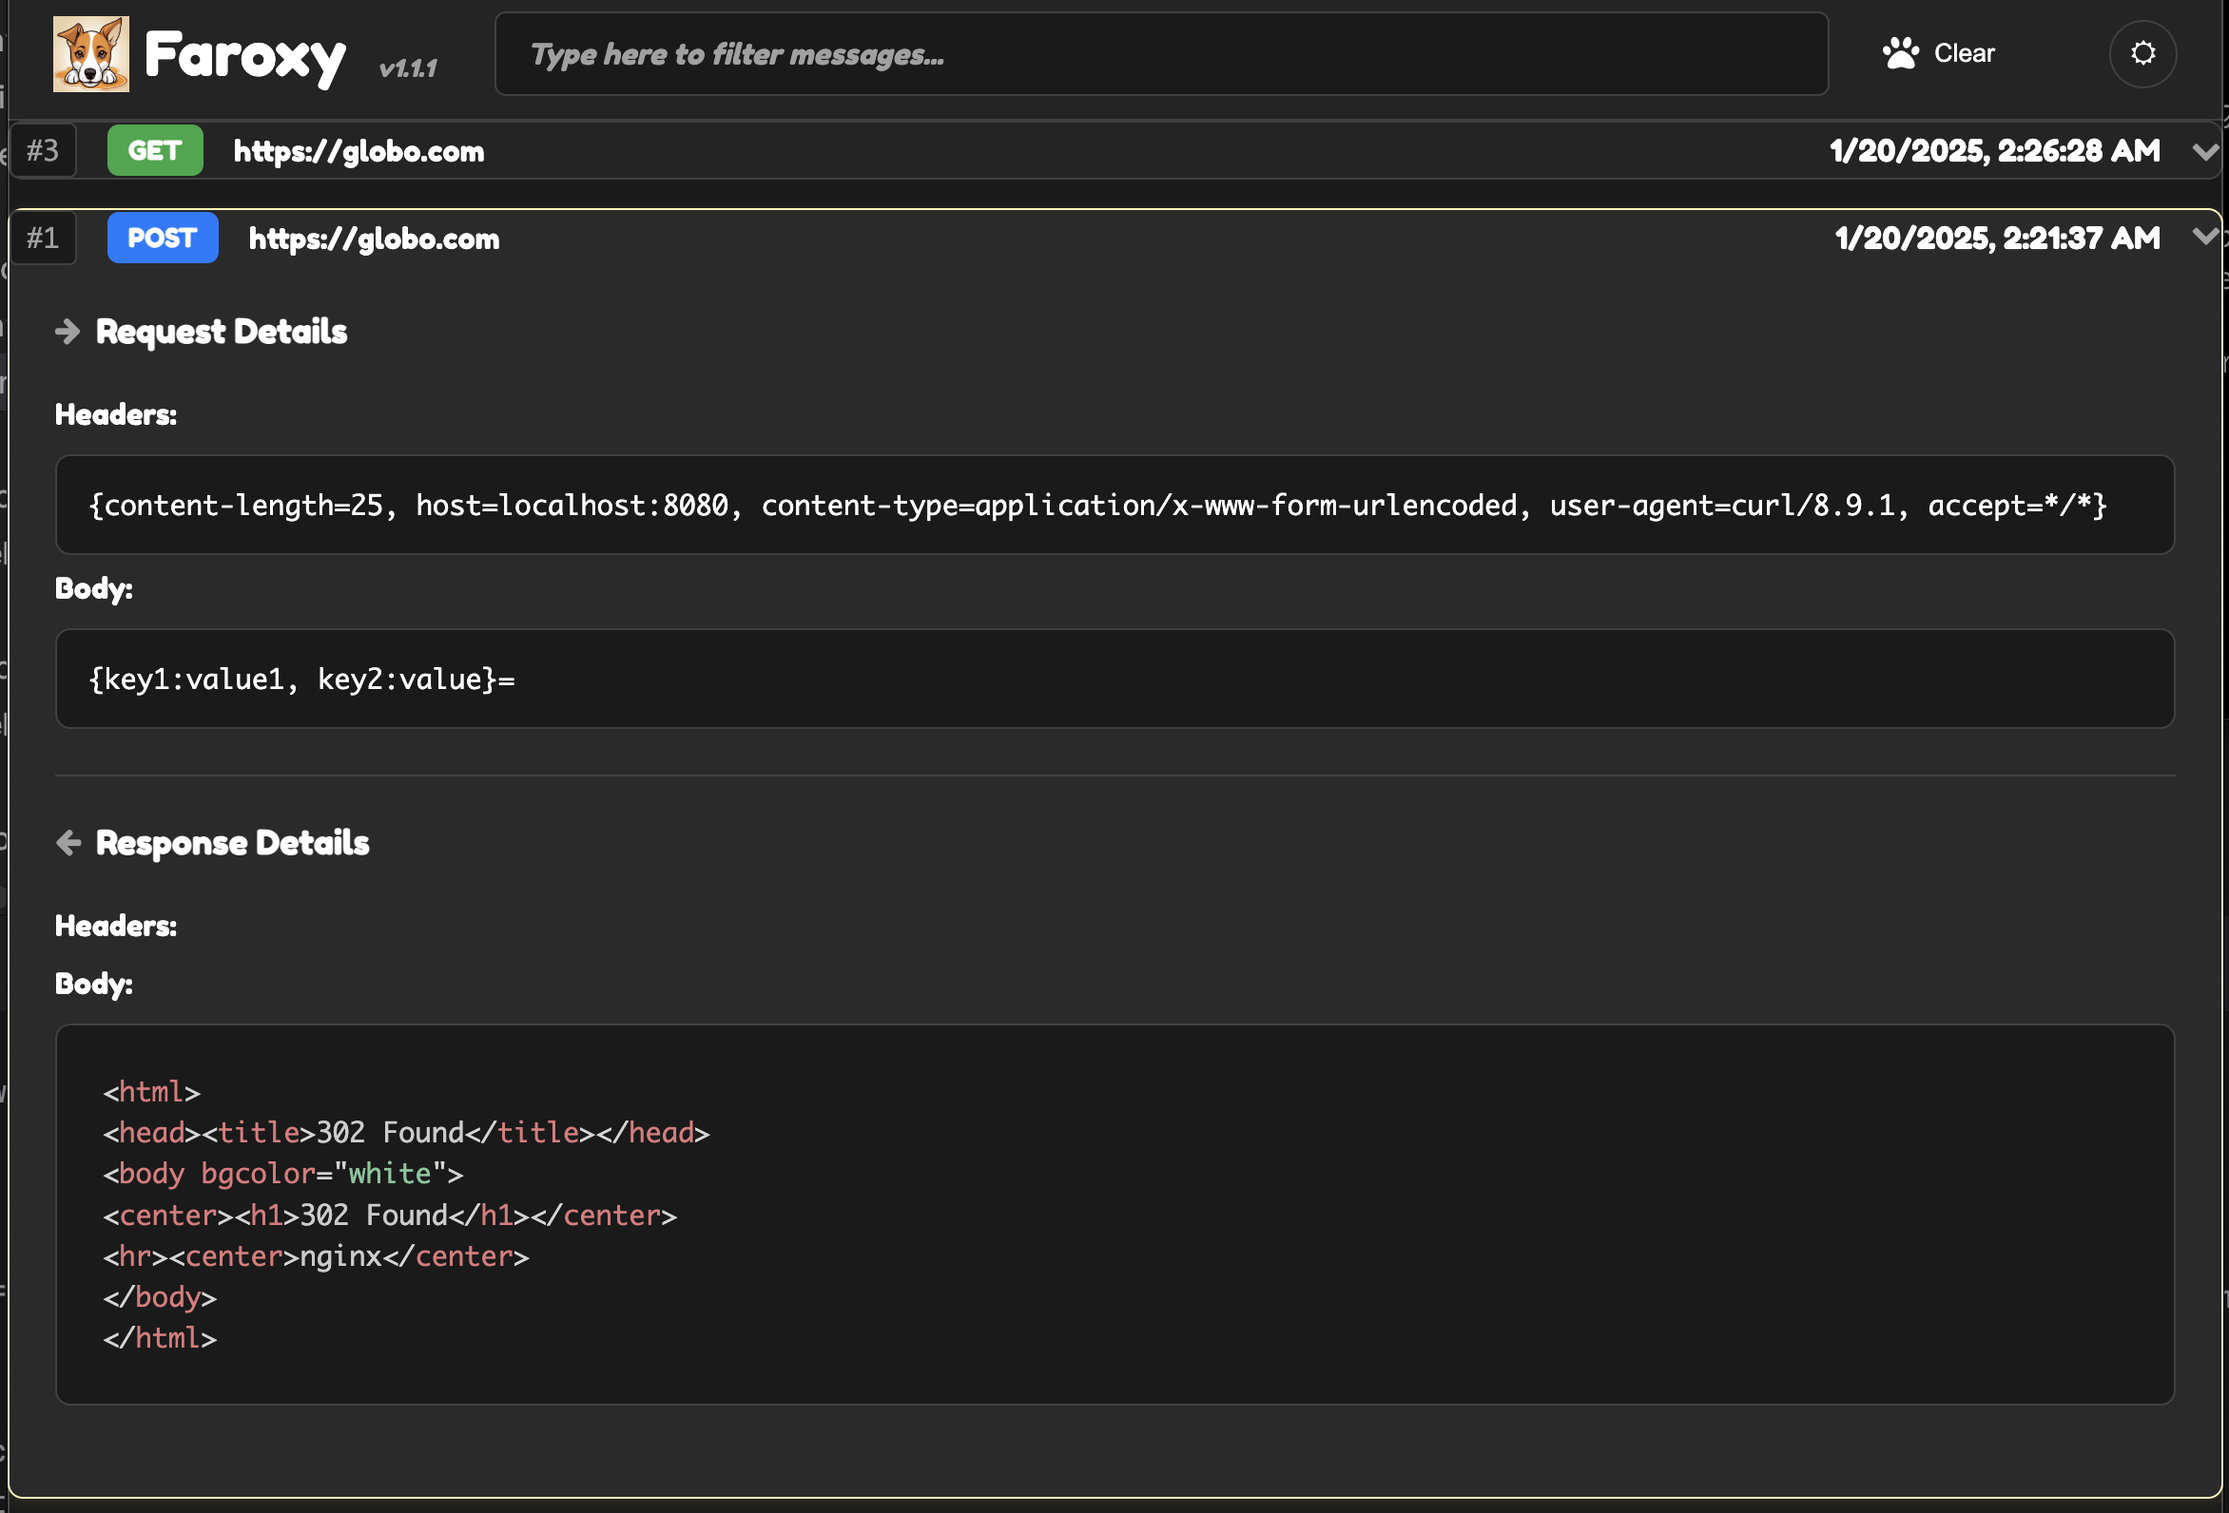
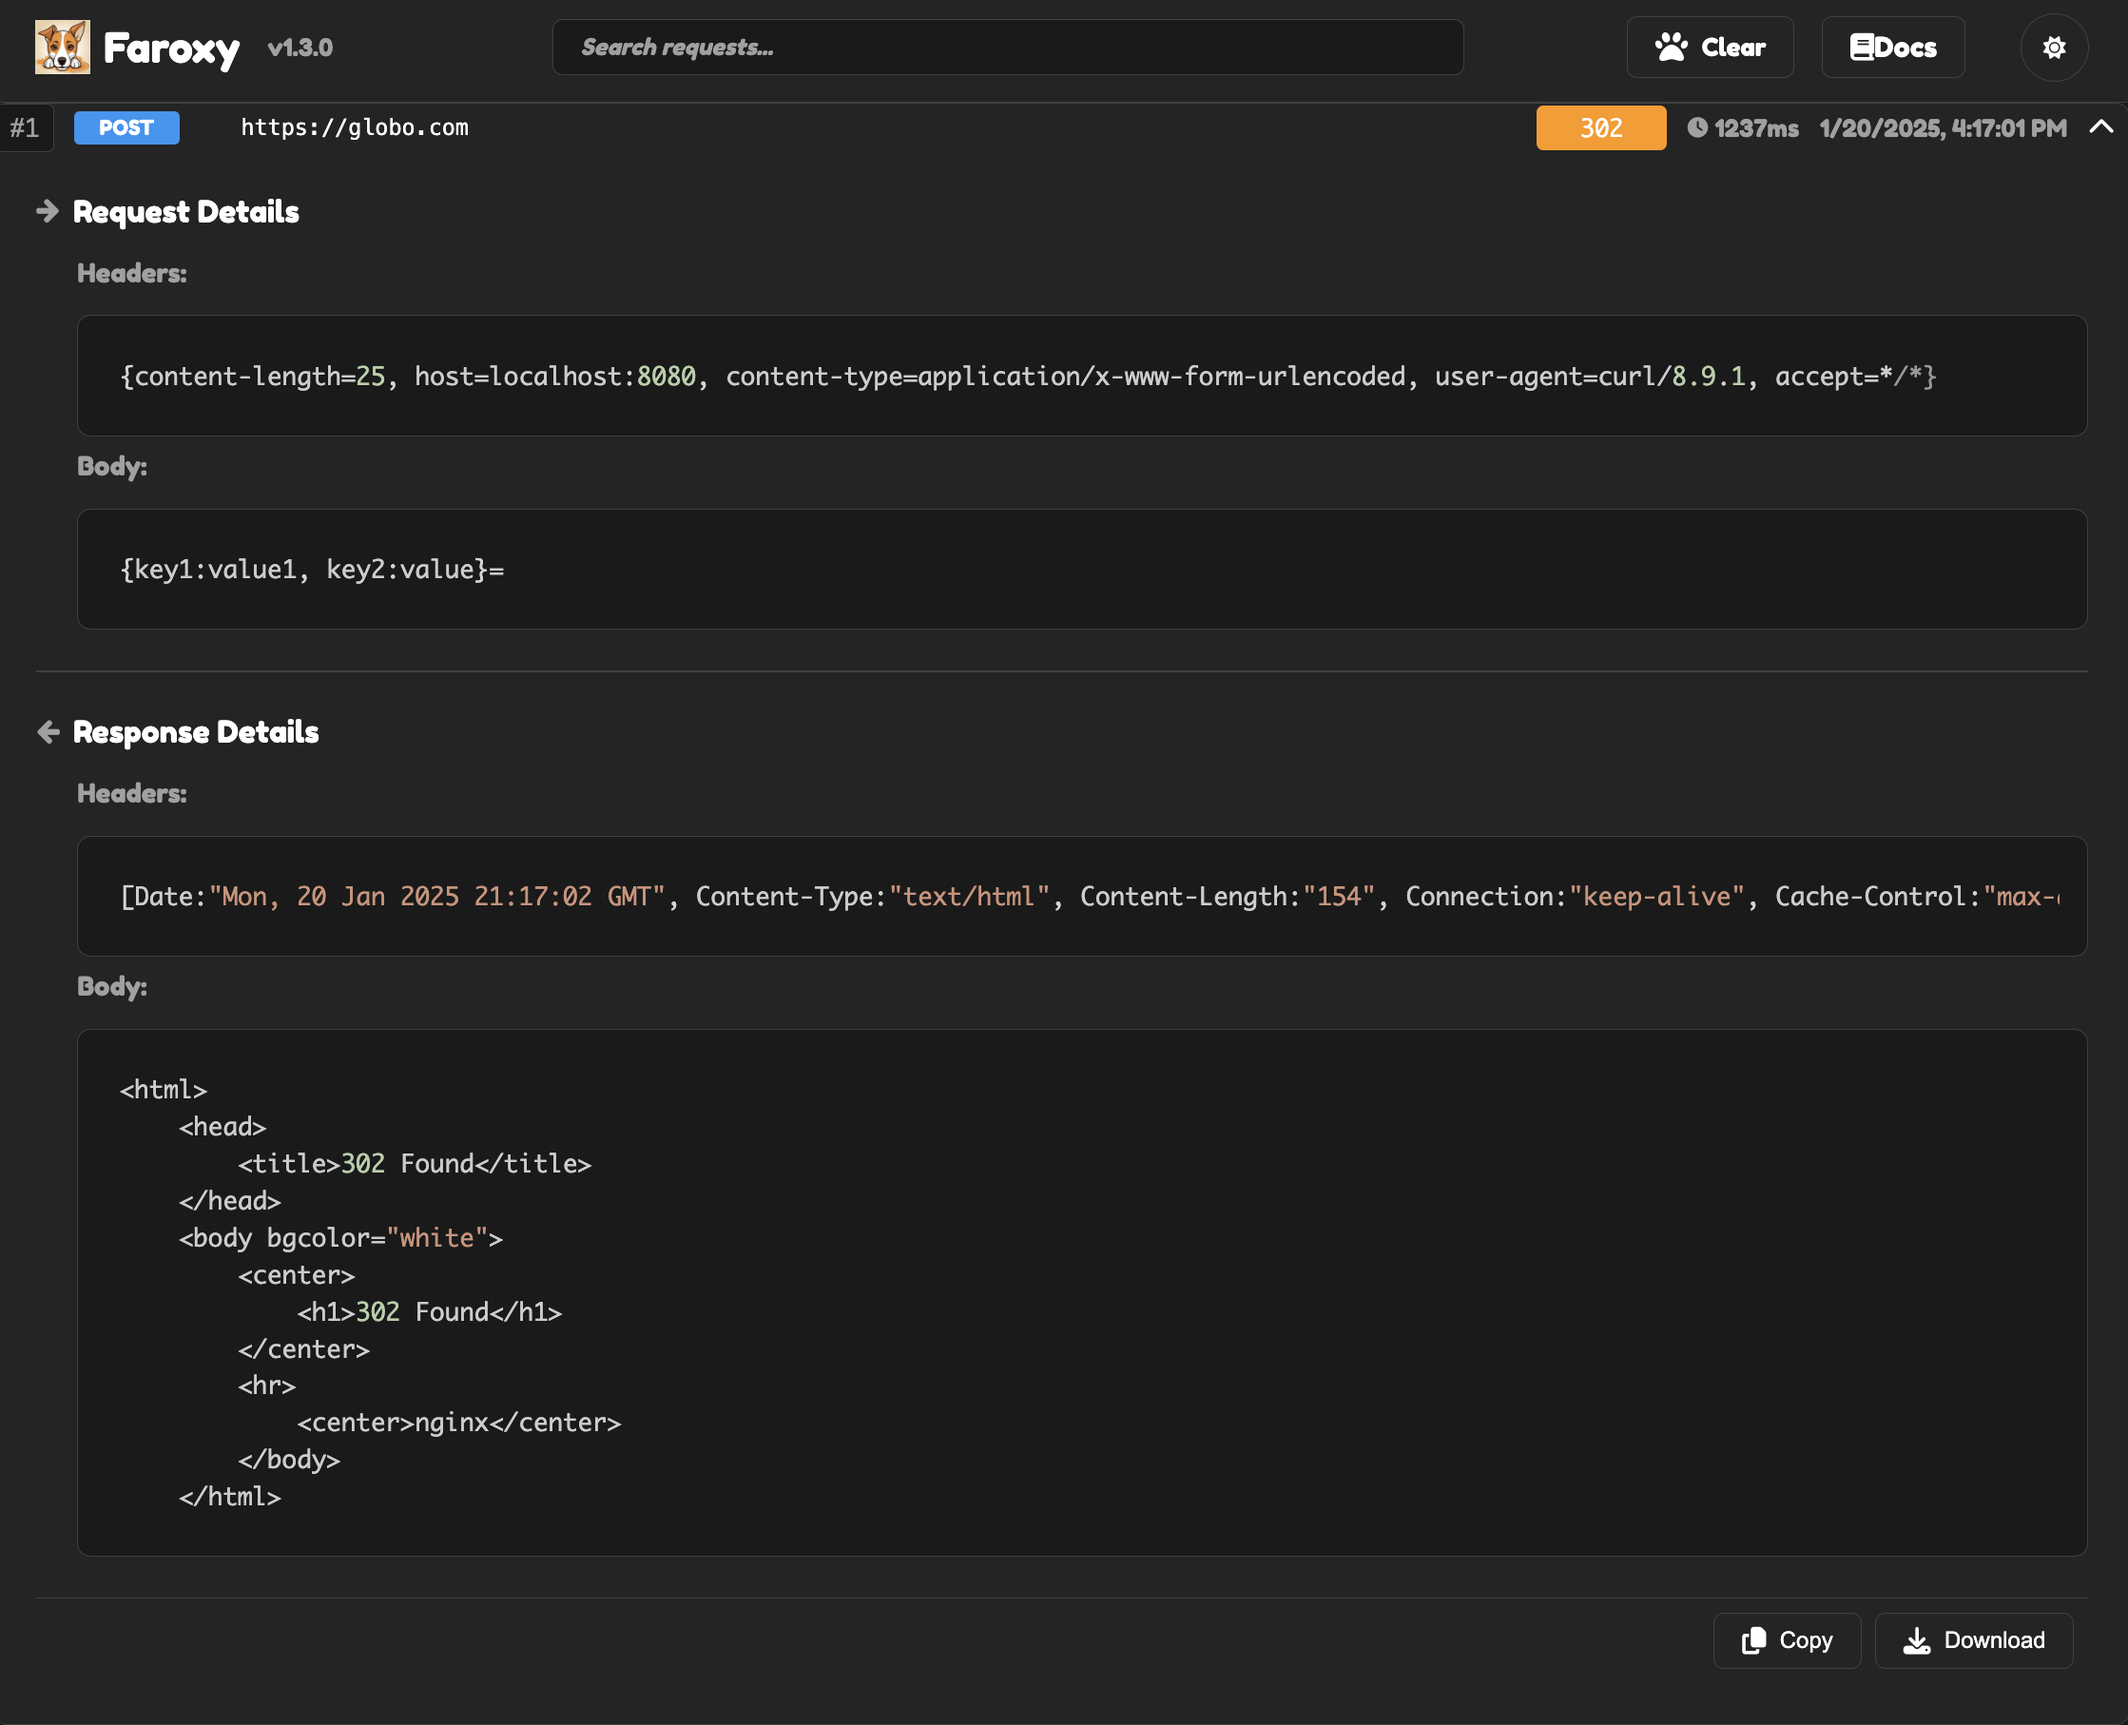
feat: Update to version 1.3.0
- Add download functionality for request/response details
- Update UI with improved action buttons styling
- Update version references in all files to 1.3.0
- Update documentation with new features
- Update web interface screenshot
- Add dark/light theme toggle feature description

diff --git a/src/main/resources/templates/proxy.html b/src/main/resources/templates/proxy.html
@@ -3,7 +3,7 @@
 <head>
     <meta charset="UTF-8">
     <meta name="viewport" content="width=device-width, initial-scale=1.0">
-    <title>Faroxy - Web Interface v1.2.2</title>
+    <title>Faroxy - Web Interface v1.3.0</title>
     <link rel="icon" type="image/x-icon" href="/images/favicon.ico">
     <link rel="stylesheet" href="https://cdnjs.cloudflare.com/ajax/libs/font-awesome/6.5.1/css/all.min.css">
     <link href="https://fonts.googleapis.com/css2?family=Fredoka+One&display=swap" rel="stylesheet">
@@ -678,7 +678,7 @@
                 <div class="brand-container">
                     <img src="/images/faroxy-logo.png" alt="Faroxy Logo" class="brand-logo">
                     <span class="brand-name">Faroxy</span>
-                    <span class="version-text">v1.2.2</span>
+                    <span class="version-text">v1.3.0</span>
                 </div>
                 
                 <div class="search-container">

diff --git a/README.md b/README.md
@@ -8,7 +8,7 @@
   A modern HTTP proxy server with real-time traffic monitoring and analysis capabilities
 </p>
 
-[![GitHub Release](https://img.shields.io/badge/release-v1.2.2-blue.svg?style=flat-square&logo=github)](https://github.com/vinipx/faroxy/releases)
+[![GitHub Release](https://img.shields.io/badge/release-v1.3.0-blue.svg?style=flat-square&logo=github)](https://github.com/vinipx/faroxy/releases)
 [![License](https://img.shields.io/badge/license-MIT-blue.svg?style=flat-square)](LICENSE)
 [![GitHub Issues](https://img.shields.io/badge/issues-open-green.svg?style=flat-square&logo=github)](https://github.com/vinipx/faroxy/issues)
 [![GitHub Pull Requests](https://img.shields.io/badge/PRs-welcome-green.svg?style=flat-square&logo=github)](https://github.com/vinipx/faroxy/pulls)
